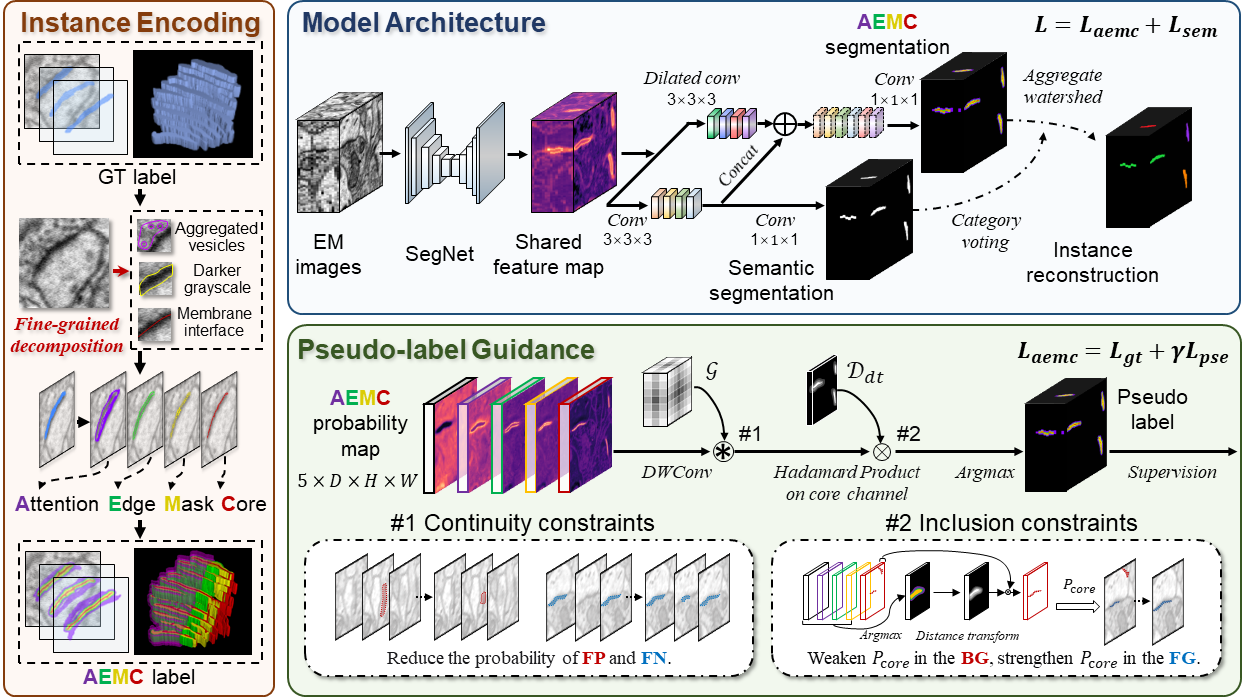
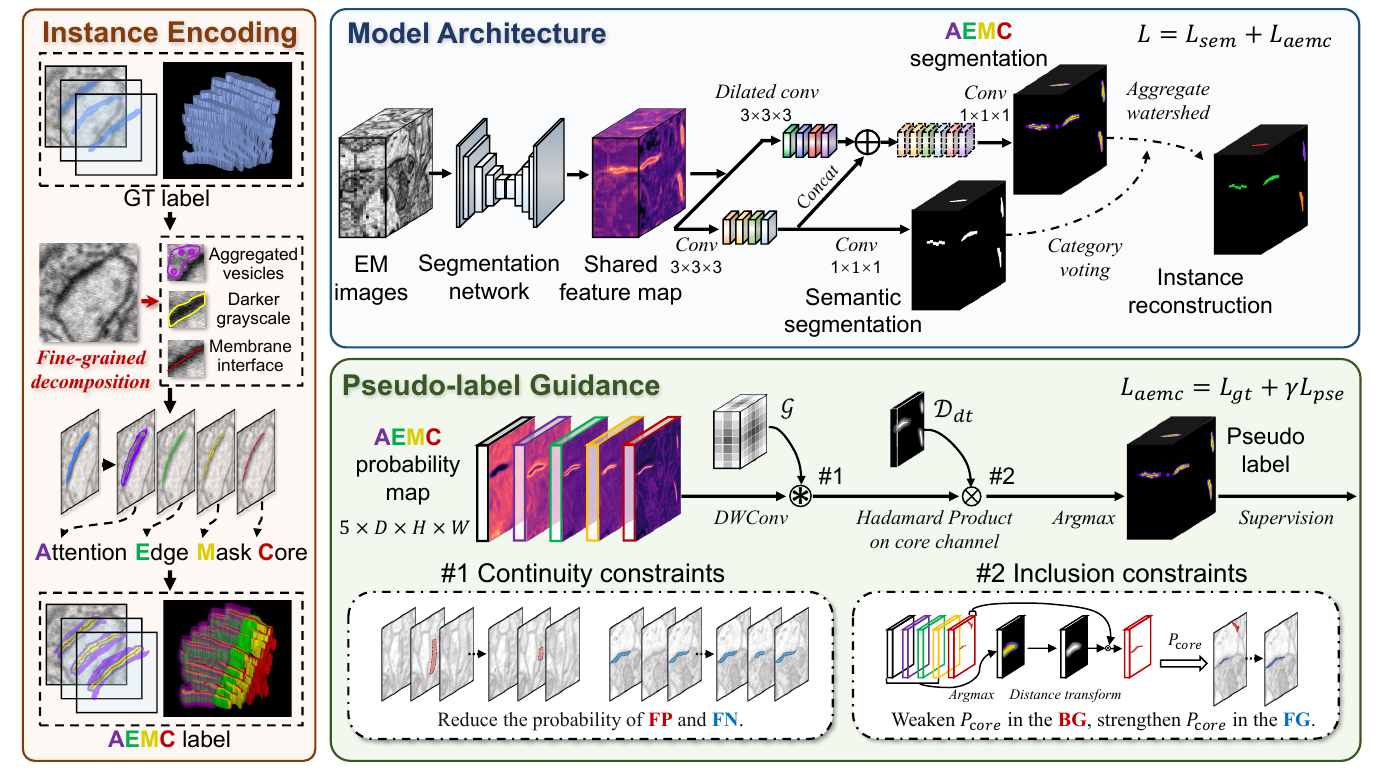
update images

diff --git a/README.md b/README.md
@@ -26,6 +26,12 @@ We develop SynReEM, an end-to-end synapse reconstruction framework for anisotrop
 	<img src="https://github.com/fenglingbai/SynReEM/blob/main/fig/p3_SynReEM.png" width = "500px" />
 </div>
 
+### The Reconstruction Process of SynReEM
+
+<div  align="center">    
+	<img src="https://github.com/fenglingbai/SynReEM/blob/main/fig/p4_reconstruction.png" width = "500px" />
+</div>
+
 ### Synapse reconstruction results display
 
 #### MICrONS
